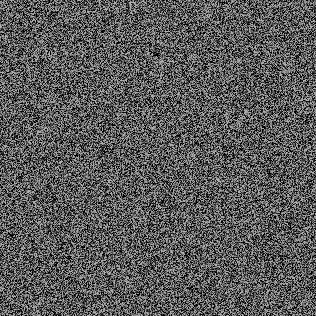
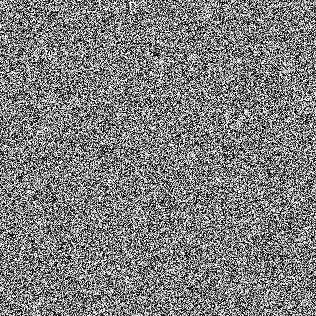
Broaden range of pixel color values from 0-180 to 0-252

diff --git a/pimage.py b/pimage.py
@@ -5,7 +5,7 @@ from PIL import Image
 from random import randint
 from math import sqrt
 
-PI_DIGITS_FILE = "pi/100000.txt"
+PI_DIGITS_FILE = "pi/1000000.txt"
 
 # Open file
 pi = open(PI_DIGITS_FILE, "r")
@@ -26,7 +26,7 @@ pixels = img.load()
 
 # Run through the entire Pi and calculate RGB values
 for i in xrange(0,pilen*pilen):
-	Color = int(int(piv[i]) * 20) 
+	Color = int(int(piv[i]) * 28) 
 	pixels[i % pilen, int( i / pilen )] = (Color, Color, Color)
 
 # Open the image

diff --git a/README.md b/README.md
@@ -7,8 +7,8 @@ pixel is colored based on its digits.
 
 ## How are colors calculated:
 All colors are grayscale which means their Red, Green, and Blue values are equal. The
-value is calculated by multiplying each digit by 20. For example, the digit 0 becomes
-`(0,0,0)`, the digit 1 becomes `(20,20,20)` and the digit 9 becomes `(180,180,180)`.
+value is calculated by multiplying each digit by 28. For example, the digit 0 becomes
+`(0,0,0)`, the digit 1 becomes `(28,28,28)` and the digit 9 becomes `(252,252,252)`.
 
 ## Example Outputs
 The first 100,000 digits of Pi:
